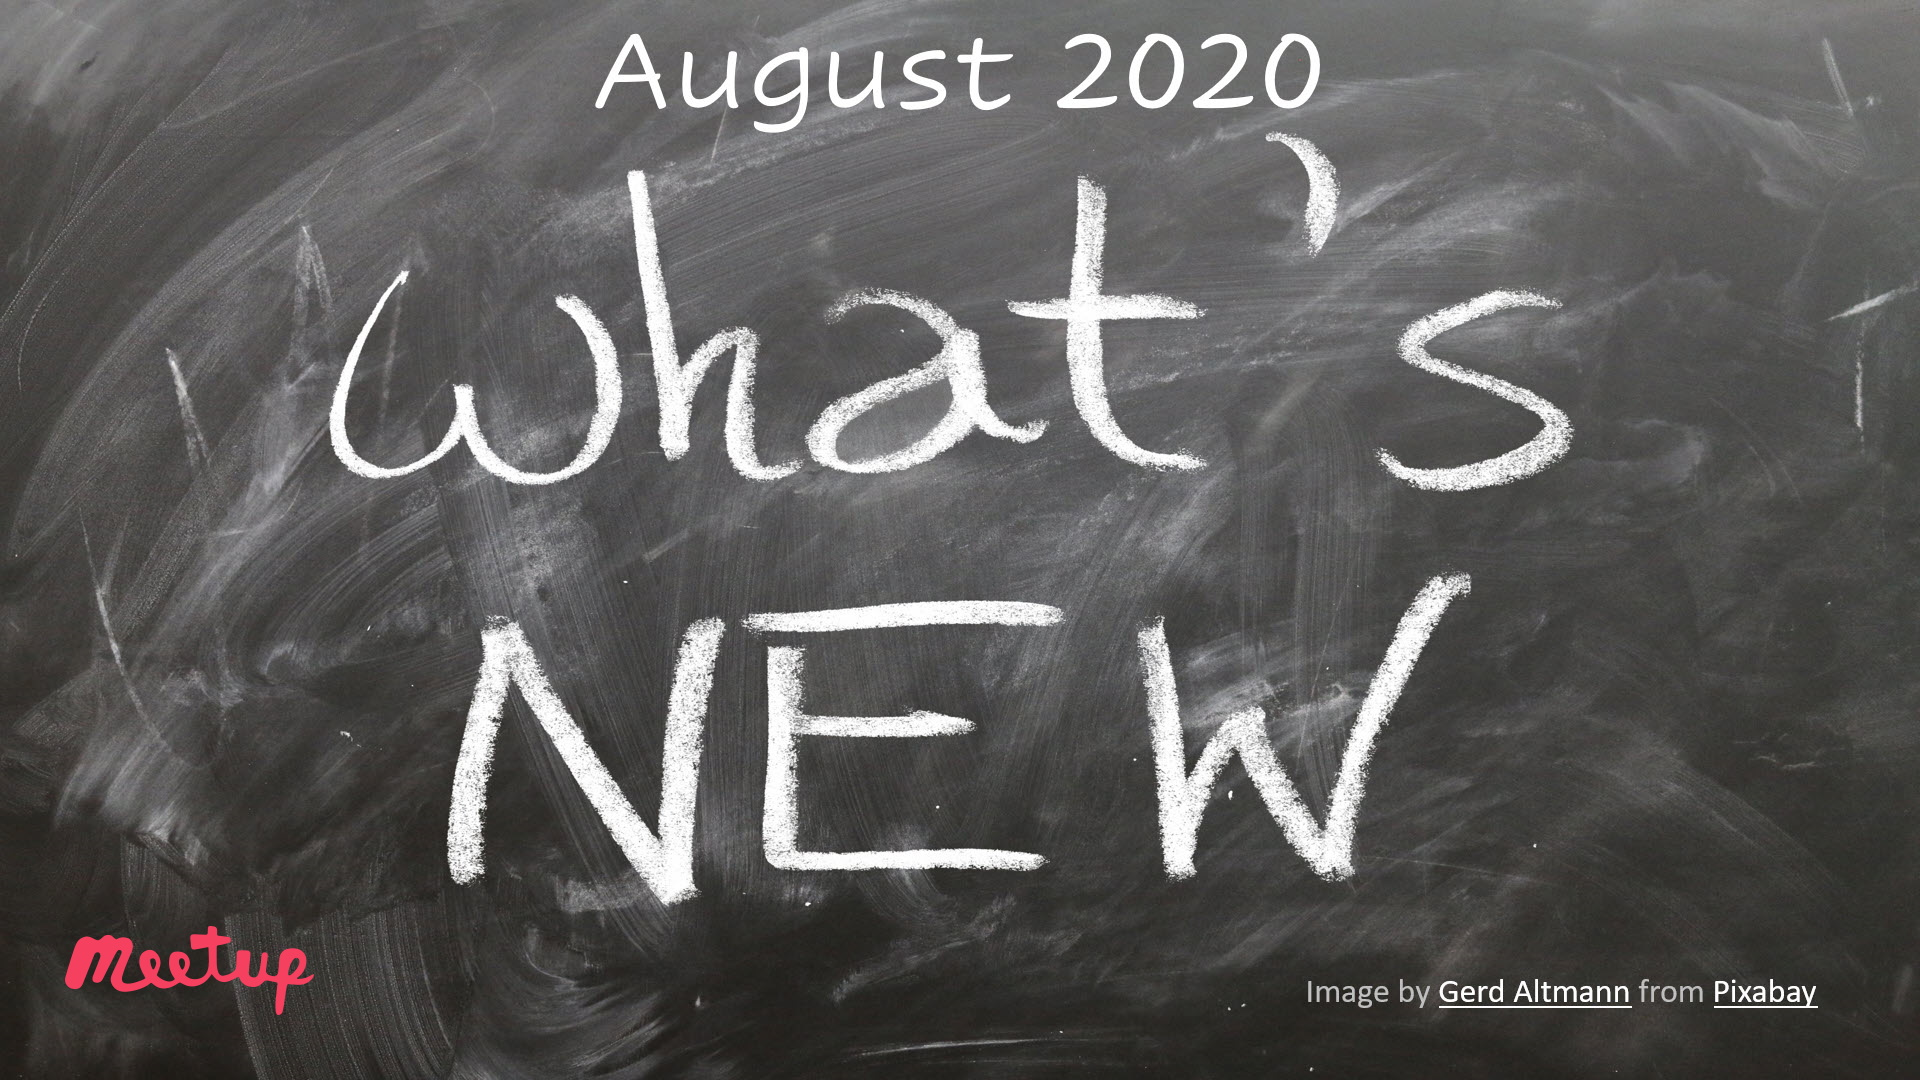
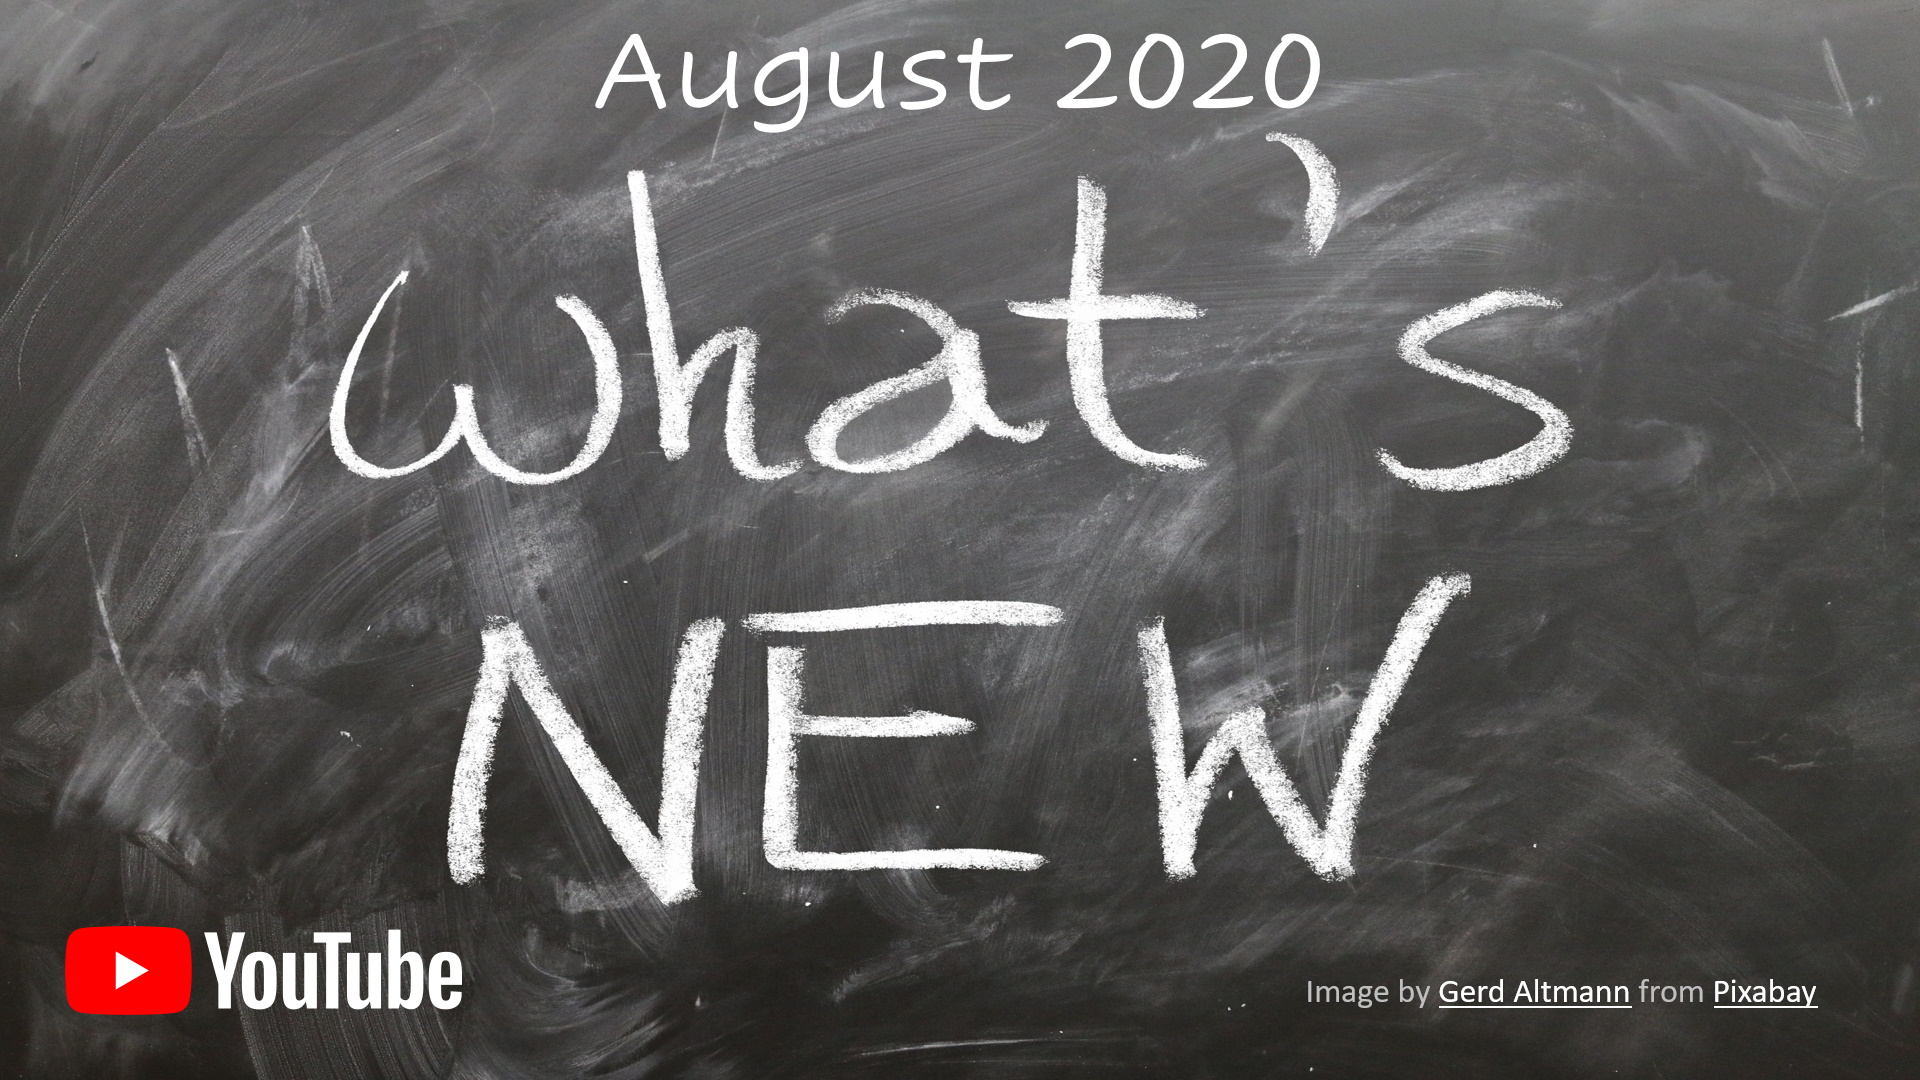
updates for august and september news and chat sessions

Changed region(s): [[0.0312, 0.8556, 0.25, 0.9472]]

diff --git a/meetups/2020/20200804.md b/meetups/2020/20200804.md
@@ -1,6 +1,6 @@
 # 4 August 2020 - News & Catch up 📰 August 2020
 
-[![](files/20200804/cover.jpg)](https://www.meetup.com/Azure-Transformation-Labs/events/271781572/)
+[![](files/20200804/cover.jpg)](https://www.youtube.com/watch?v=OHkEW4ZSmfg)
 
 ## Join Us
 
@@ -10,7 +10,14 @@ RSVP on meetup: [Azure Transformation Labs](https://www.meetup.com/Azure-Transfo
 
 ## Session notes
 
-This will be posted after the session 😀
+- Garmin down - [https://www.businessinsider.co.za/garmin-connect-down-after-outage-some-features-coming-back-2020-7](https://www.businessinsider.co.za/garmin-connect-down-after-outage-some-features-coming-back-2020-7)
+- Where do you keep your recovery keys
+- Troy Hunts crazy setup - [https://www.troyhunt.com/building-the-ultimate-home-office-again/](https://www.troyhunt.com/building-the-ultimate-home-office-again/)
+- Thoughts on ultra Widescreens
+- .net 5 - [https://devblogs.microsoft.com/dotnet/performance-improvements-in-net-5/](https://devblogs.microsoft.com/dotnet/performance-improvements-in-net-5/)
+- BenchmarkDotNet - [https://github.com/dotnet/BenchmarkDotNet](https://github.com/dotnet/BenchmarkDotNet)
+- .net source code - [https://referencesource.microsoft.com/](https://referencesource.microsoft.com/)
+- Ref12 Extension for Visual Studio - [https://marketplace.visualstudio.com/items?itemName=SchabseSLaks.Ref12](https://marketplace.visualstudio.com/items?itemName=SchabseSLaks.Ref12)
 
 ## Subscribe / Join
 

diff --git a/meetups/2020/20200901.md b/meetups/2020/20200901.md
@@ -1,0 +1,19 @@
+# 1 September 2020 - News & Catch up 📰 September 2020
+
+[![](files/20200901/cover.jpg)](https://www.meetup.com/Azure-Transformation-Labs/events/272374902/)
+
+## Join Us
+
+[News & Catch up September 2020](https://www.meetup.com/Azure-Transformation-Labs/events/272374902/) - 1 September 2020 @ 6pm UTC + 2
+
+RSVP on meetup: [Azure Transformation Labs](https://www.meetup.com/Azure-Transformation-Labs/)
+
+## Session notes
+
+This will be posted after the session 😀
+
+## Subscribe / Join
+
+[![Azure Transformation Labs](files/_common/meetup.jpg)](https://www.meetup.com/Azure-Transformation-Labs/)
+
+[![South Africa Durban UG](files/_common/YouTube.jpg)](https://www.youtube.com/channel/UCLiY63qnSK5H619_uKSue4g)

diff --git a/README.md b/README.md
@@ -4,8 +4,9 @@ Index of meetup notes pages 😁
 
 ## 2020
 
-- [21 July 2020 - Azure Sketches, The Architect Series - Part 3](meetups/2020/20200721.md)
+- [1 September 2020 - News & Catch up 📰 September 2020](meetups/2020/20200901.md)
 - [4 August 2020 - News & Catch up 📰 August 2020](meetups/2020/20200804.md)
+- [21 July 2020 - Azure Sketches, The Architect Series - Part 3](meetups/2020/20200721.md)
 - [7 July 2020 - News & Catch up 📰 July 2020](meetups/2020/20200707.md)
 - [23 June 2020 - Azure Sketches, The Architect Series - Part 2](meetups/2020/20200623.md)
 - [2 June 2020 - News & Catch up 📰 June 2020](meetups/2020/20200602.md)
